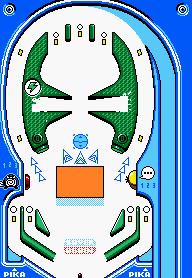
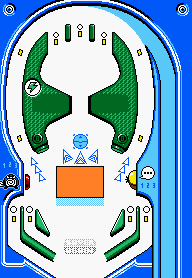
new board + big islands

diff --git a/Source/ModuleGame.cpp b/Source/ModuleGame.cpp
@@ -286,6 +286,48 @@ static const int wall_right[] = {
 	100, 6,
 };
 
+static const int big_island_right[] = {
+	114, 34, 125, 45, 133, 57, 135, 69,
+	138, 82, 138, 114, 134, 133, 132, 143,
+	127, 151, 123, 154, 112, 148, 115, 137,
+	116, 129, 111, 125, 91, 113, 91, 98,
+	113, 85, 116, 83, 121, 76, 121, 68,
+	119, 63, 114, 53
+};
+
+
+static const int big_island_left[]{
+	49, 32,
+	49, 54,
+	42, 64,
+	39, 72,
+	43, 81,
+	47, 84,
+	73, 97,
+	73, 113,
+	53, 123,
+	47, 126,
+	44, 133,
+	46, 139,
+	47, 141,
+	49, 149,
+	39, 154,
+	34, 149,
+	26, 132,
+	25, 122,
+	23, 114,
+	23, 82,
+	24, 77,
+	26, 68,
+	30, 55,
+	37, 43
+};
+//static const int up_island_right[]{};
+//static const int up_island_left[]{};
+//static const int lil_island_right[]{};
+//static const int lil_island_left[]{};
+//static const int long_island_right[]{};
+//static const int long_island_left[]{};
 
 ModuleGame::ModuleGame(Application* app, bool start_enabled) : Module(app, start_enabled), leftFlipper(NULL), rightFlipper(NULL)
 {
@@ -312,6 +354,8 @@ bool ModuleGame::Start()
 	// Walls of the table (the hole between them is the drain)
 	entities.push_back(new Wall(App->physics, wall_left));
 	entities.push_back(new Wall(App->physics, wall_right));
+	entities.push_back(new Wall(App->physics, big_island_right));
+	entities.push_back(new Wall(App->physics, big_island_left));
 
 	float leftFlipperX = 56.0f;
 	float rightFlipperX = 106.0f;
